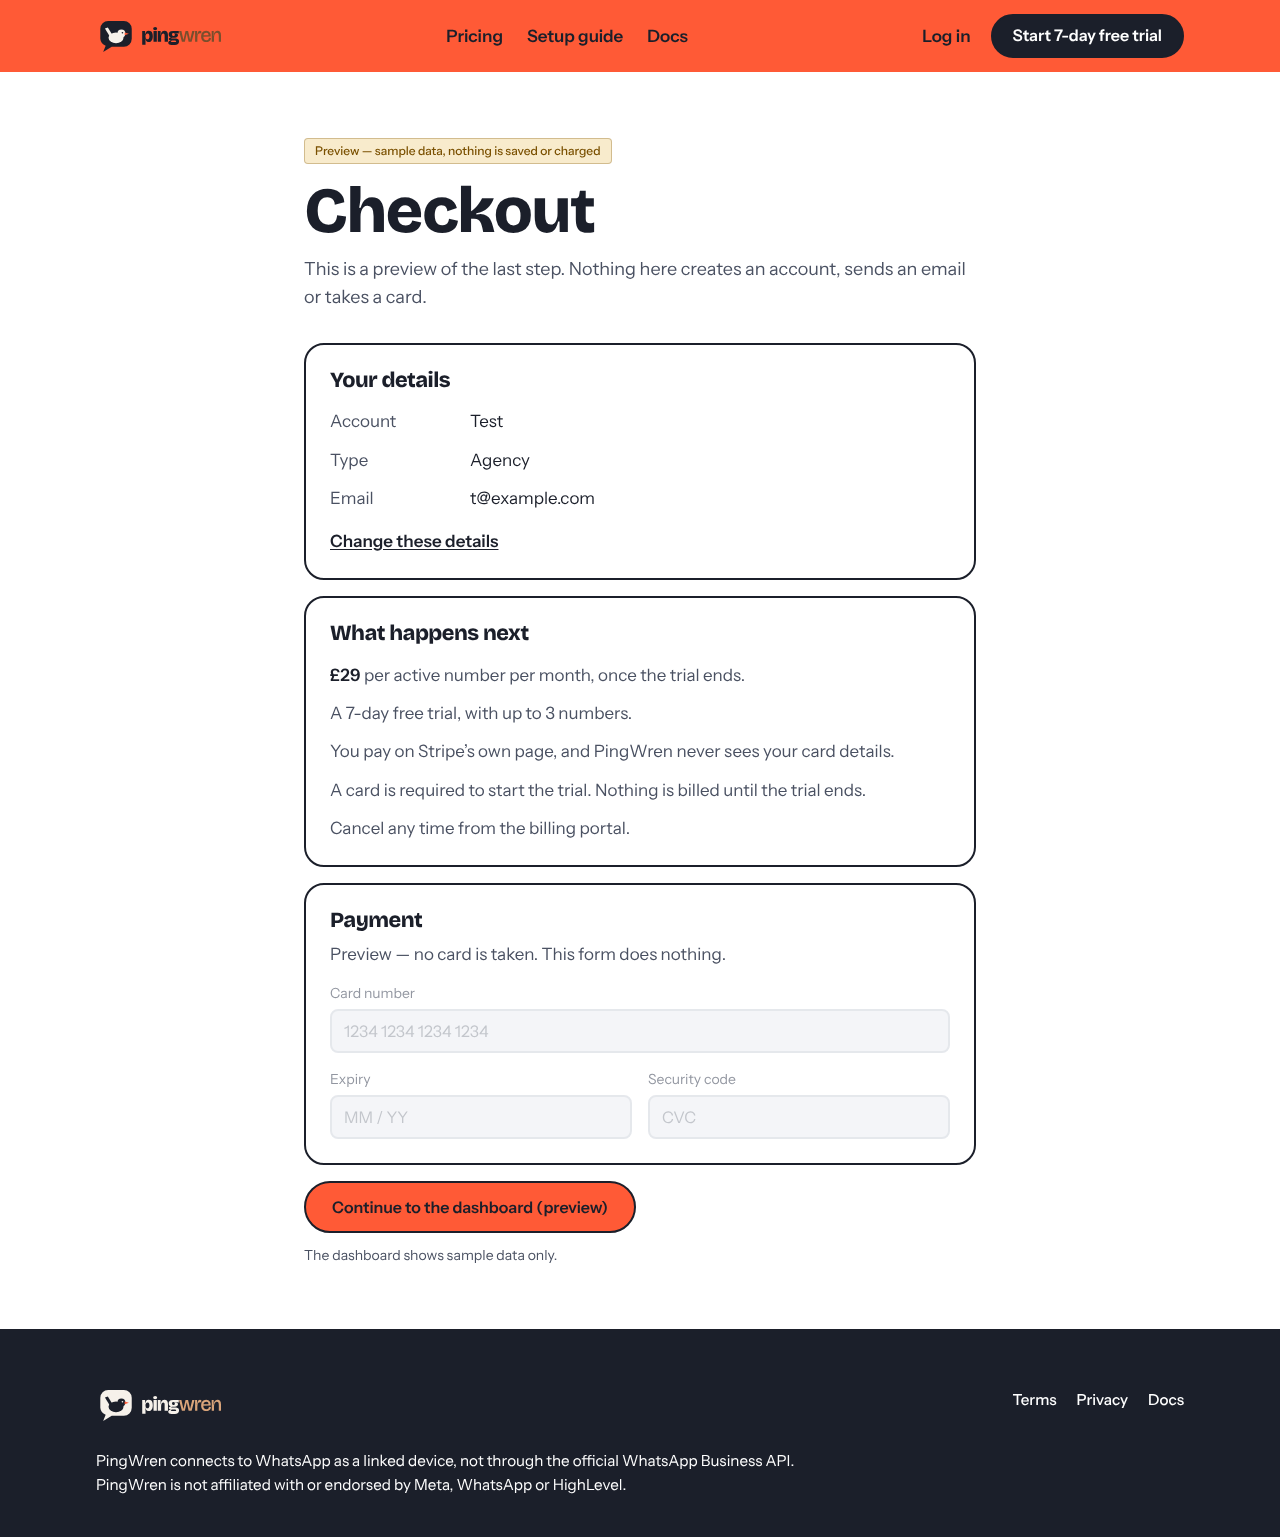
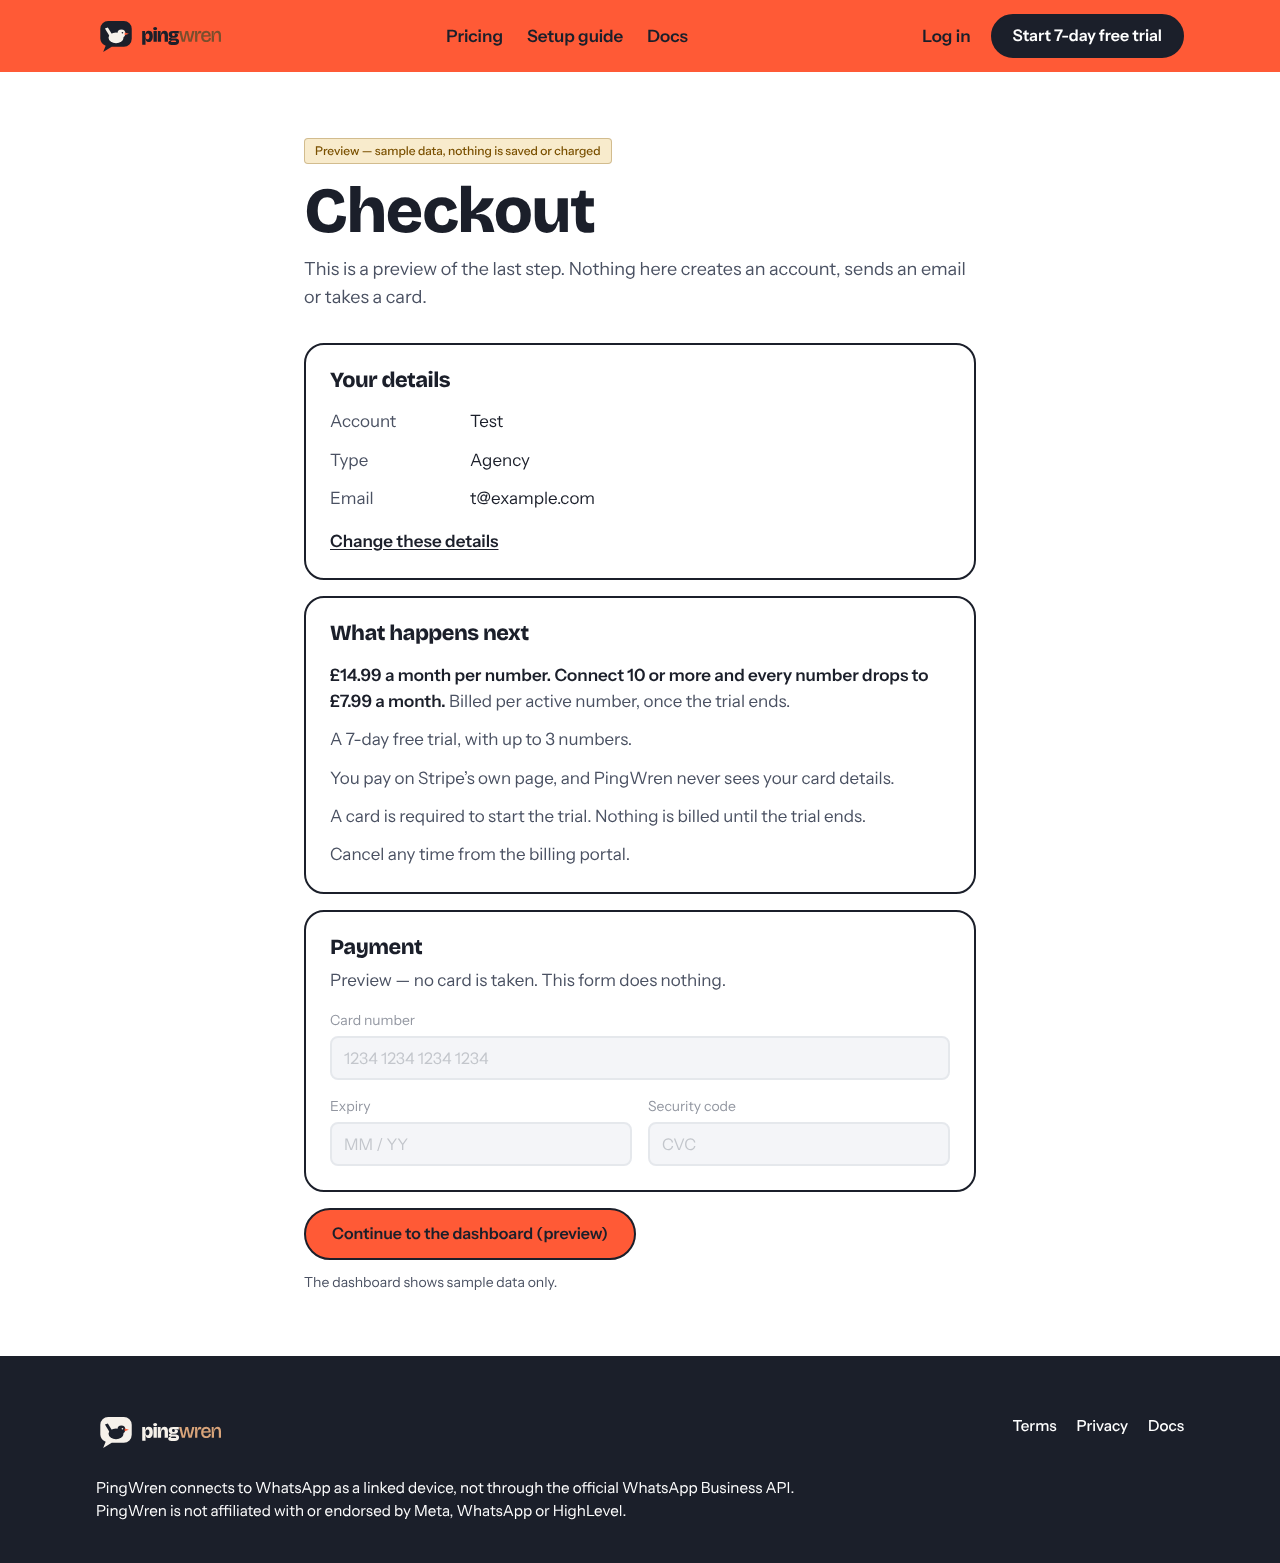
verify: walkthrough after pricing, phones and help sheet
Claude-Session: https://claude.ai/code/session_01C8am6JXR8UgvKbeEBPvjuQ

diff --git a/docs/website-screenshots/README.md b/docs/website-screenshots/README.md
@@ -5,11 +5,13 @@ Verification of the PingWren website at commit `574906e` (branch `claude/adoring
 ## How to re-run
 
 ```sh
-BRAND_PRICE_PER_NUMBER=29 NEXT_PUBLIC_APP_URL=http://localhost:3000 npm run build
-BRAND_PRICE_PER_NUMBER=29 NEXT_PUBLIC_APP_URL=http://localhost:3000 npm start   # port 3000; note the PID
+NEXT_PUBLIC_APP_URL=http://localhost:3000 npm run build   # no price env var: pricing is a constant in src/lib/pricing.ts (W40)
+NEXT_PUBLIC_APP_URL=http://localhost:3000 npm start   # port 3000; note the PID
 npm i --no-save axe-core@4.10.2
 NODE_PATH=/opt/node22/lib/node_modules PLAYWRIGHT_BROWSERS_PATH=/opt/pw-browsers node scripts/site-walkthrough.cjs
 ```
+
+The price figures quoted in the Task 12 and Task 13 sections below (£29, £145, £348) are the historical single price; since Task 15 the site uses volume pricing (£14.99 a number, £7.99 each at 10 or more). See the Task 17 re-run at the end for the current figures.
 
 `scripts/site-walkthrough.cjs` starts nothing itself. For every route at 375x812 and 1280x900 it asserts no horizontal scroll, the expected `<h1>` count, the expected HTTP status, no WhatsApp green (`#25D366`) in any computed colour and no image whose `src` looks like a WhatsApp logo; it captures a full-page screenshot and runs axe-core 4.10.2 (`wcag2a`, `wcag2aa`, `wcag21aa`). It exits 1 on any failure or any serious/critical axe violation and writes `a11y-report.md`.
 
@@ -21,7 +23,7 @@ NODE_PATH=/opt/node22/lib/node_modules PLAYWRIGHT_BROWSERS_PATH=/opt/pw-browsers
 - `/admin` answers **500** without Supabase env (fails closed), as expected.
 - No page paints `#25D366`; no WhatsApp logo image anywhere.
 
-Routes: `/`, `/pricing`, `/docs`, `/docs/setup`, `/docs/faq`, `/docs/billing`, `/docs/privacy-and-data`, `/legal/terms`, `/legal/privacy`, `/signup`, `/login`, `/dashboard`, `/dashboard/billing`, `/dashboard?scenario=past_due`, `/dashboard?filter=attention`, `/docs/setup?audience=business`, `/signup/checkout?name=Test&kind=agency&email=t%40example.com`, `/login?sent=1`, `/signup?error.*` (all three errors, values kept: `signup--errors-*.png`), `/this-page-does-not-exist` (404, `not-found-*.png`), `/embed/crm`, `/connect/abc`.
+Routes: `/`, `/pricing`, `/docs`, `/docs/setup`, `/docs/connect` (added in the Task 17 re-run), `/docs/faq`, `/docs/billing`, `/docs/privacy-and-data`, `/legal/terms`, `/legal/privacy`, `/signup`, `/login`, `/dashboard`, `/dashboard/billing`, `/dashboard?scenario=past_due`, `/dashboard?filter=attention`, `/docs/setup?audience=business`, `/signup/checkout?name=Test&kind=agency&email=t%40example.com`, `/login?sent=1`, `/signup?error.*` (all three errors, values kept: `signup--errors-*.png`), `/this-page-does-not-exist` (404, `not-found-*.png`), `/embed/crm`, `/connect/abc`.
 
 Screenshots are `<slug>-375.png` and `<slug>-1280.png`. Hero animation frames are `hero-anim-{start,mid,end,reduced-motion}-1280.png` (clipped to the hero figure). The open mobile menu is `home-mobile-menu-open-375.png`. No two states were pixel-identical, so nothing was dropped.
 
@@ -89,3 +91,15 @@ Re-run at commit `71866c3` (Task 14A to 14C: coral field, Ink pills and slabs, h
 - Direction B fidelity against `docs/design/website/direction-b.html`: header and hero are one coral field (header border 0); at 1280 the h1 is 58.9px and the big number 280px, 712px wide in a 665px column (107%), so the "+" sits partly behind the tilted SMS phone, as it does in the draft; the phones (229px and 219px wide, rotated -4deg and 3deg) cross the coral edge at 64% and 70% of their height; "Why" top padding 320px; step numerals Coral at 115px on Ink; the board is a 3px Ink slab with an Ink top bar; the safety rows are 3px Ink rules on Coral; the disclosure slab lifts with a 12px Coral shadow; the FAQ h2 is sticky on Mist with CSS chevrons; the price strip is Coral; the footer Ink. At 375 the h1 is 33.6px, the number 104px (77% of the 343px column), the phones 185px and 182px wide side by side from x=13 to x=363, crossing the coral edge at 83% and 77%, "Why" top padding 230px, FAQ h2 static, slab shadow 6px.
 - Copy: the rendered text of `/`, `/pricing`, `/docs/setup` and `/docs/faq` was diffed against `COPY-DECK.md` (40 quoted blocks: all present except the aria-labels and the calculator template, which are not visible text, and the FAQ `ban-risk` answer, where `faq.ts` carries the approved shorter wording). None of the draft-only lines ("Clients read WhatsApp", "behaves like a person", "flag it for you", "Our 85%+ is our own", B's four business names and row states) renders. W10 ("from that number"), W11 ("reported back to GoHighLevel as not sent"), W12 (footer disclaimer), W14 ("per active number"), W35 ("verified badge", "per message") all present; "HighLevel" only in quoted help-centre titles and the disclaimer. "PingWren" appears at most once per paragraph on `/` except the two-sentence footer disclaimer (pinned, W12).
 - Findings from this run are in `.superpowers/sdd/2026-10-16-website/task-14d-report.md` (gitignored) and `progress.md`.
+
+## Task 17 (volume pricing, WhatsApp-style phones, help sheet) re-run
+
+Re-run at commit `83b2fcc` (Task 15: volume pricing, the two WhatsApp-style phones, "Why we made it" removed; Task 16: the `/docs/connect` help sheet and PDF). Same command, production build on port 3200 (`BASE_URL=http://localhost:3200`), no Supabase env and no price env var.
+
+- Exit code **0**: 23 routes x 2 widths (`/docs/connect` is new), 0 axe violations at any impact, 0 horizontal-scroll failures (`scrollWidth == innerWidth` on every route at 375 and 1280), one `<h1>` on every route except `/embed/crm` (F2), `/admin` 500 as expected, no WhatsApp green or logo on any page. `a11y-report.md` gains the two `/docs/connect` rows and its logo rows (standard artwork on Coral in the header, reverse on Ink in the footer).
+- Every `<slug>-375.png` and `<slug>-1280.png` is refreshed; `docs-connect-{375,1280}.png` are new.
+- Pricing (ruling W40 revised, volume): the calculator gives 1 = £14.99, 3 = £44.97, 5 = £74.95, 9 = £134.91, 10 = £79.90, 11 = £87.89 and 25 = £199.75; 0 shows £14.99 with "Enter a whole number from 1 to 500. Showing the price for 1."; 600 shows £3,995.00 with "...Showing the price for 500."; empty clears the live region. With JavaScript off at 375 the fallback sentence reads "1 number is £14.99 a month, 3 numbers £44.97, 5 numbers £74.95, 10 numbers £79.90 and 25 numbers £199.75" and the tier list (1 to 9 numbers £14.99 each; 10 or more £7.99 each) is in the HTML. The same two-sentence tier line ("£14.99 a month per number. Connect 10 or more and every number drops to £7.99 a month.") appears on the home price strip, the FAQ trial answer (home and `/docs/faq`), `/docs/billing`, `/signup/checkout`, and the dashboard billing preview; the dashboard headline reads "3 numbers active · £44.97/month" on trial and "5 numbers active · £74.95/month" for the active and past-due scenarios; the preview invoice is £44.97. No page renders £29 or any "same price" wording.
+- Home: no "Why we made it" section and no "made up" caption. The hero footnote link (`a[href="#own-result"]`) lands on the `#own-result` note inside "Read this before you sign up" (after the click the note's top sits 24px below the viewport top). The two phones read as a plain SMS thread (grey bubble, "No reply") and a WhatsApp-style chat (dark header with avatar, patterned wallpaper, peach outgoing bubble, two grey ticks `rgb(95, 102, 118)`, the reply and the "Back in Conversations" chip). No element inside either phone paints a green in any colour, background, border, fill or stroke; no `<img>` inside them. The figure's `aria-label` describes the exchange.
+- `/docs/connect`: every app label on the sheet ("Connect WhatsApp", "Get a new QR code", "Reconnect", "Connected", "Waiting for QR scan", "Disconnected", the QR instruction, "Open this link on a computer, tablet, or a second phone.") is the string the app shows (`CrmEmbedClient.tsx`, `WhatsappConnectionPanel.tsx`, `ConnectLinkClient.tsx`); the Telephony Provider path, alternative-label note, QR warning and the expired-code / linked-device-limit answers match `setup-steps.ts`. In print media the header nav, the footer and the print/download buttons are `display: none`, the page is Ink on white, and `page.pdf` at A4 produces two pages. The committed `public/help/pingwren-how-to-connect.pdf` (A4, 2 pages) has text identical to a PDF generated from this build.
+- Coral text sweep (every element with its own visible text inside `.surface-coral`, excluding `.btn-ink` and the phones) on `/`, `/pricing`, `/docs`, `/docs/setup`, `/docs/connect`, `/docs/faq`, `/docs/billing` and `/signup` at 375 and 1280: 0 non-Ink colours (9 to 27 elements per page).
+- Findings from this run are in `.superpowers/sdd/2026-10-16-website/task-17-report.md` (gitignored) and `progress.md`.

diff --git a/docs/website-screenshots/a11y-report.md b/docs/website-screenshots/a11y-report.md
@@ -15,6 +15,8 @@ axe-core 4.10.2 with tags wcag2a, wcag2aa, wcag21aa; viewports 375x812 and 1280x
 | `/docs` | 1280 | 200 | 1 | yes | 0 | 0 |
 | `/docs/setup` | 375 | 200 | 1 | yes | 0 | 0 |
 | `/docs/setup` | 1280 | 200 | 1 | yes | 0 | 0 |
+| `/docs/connect` | 375 | 200 | 1 | yes | 0 | 0 |
+| `/docs/connect` | 1280 | 200 | 1 | yes | 0 | 0 |
 | `/docs/faq` | 375 | 200 | 1 | yes | 0 | 0 |
 | `/docs/faq` | 1280 | 200 | 1 | yes | 0 | 0 |
 | `/docs/billing` | 375 | 200 | 1 | yes | 0 | 0 |
@@ -59,7 +61,7 @@ None.
 
 ## Logo variant per route
 
-Logo `<img>` sources found at 1280 with the nearest painted background (reverse artwork belongs on Ink, standard on Cream).
+Logo `<img>` sources found at 1280 with the nearest painted background (reverse artwork belongs on Ink, standard on Coral).
 
 | Route | Logo file | Background |
 | --- | --- | --- |
@@ -71,6 +73,8 @@ Logo `<img>` sources found at 1280 with the nearest painted background (reverse 
 | docs | pingwren-logo-reverse.svg | rgb(27, 31, 42) |
 | docs-setup | pingwren-logo.svg | rgb(255, 90, 54) |
 | docs-setup | pingwren-logo-reverse.svg | rgb(27, 31, 42) |
+| docs-connect | pingwren-logo.svg | rgb(255, 90, 54) |
+| docs-connect | pingwren-logo-reverse.svg | rgb(27, 31, 42) |
 | docs-faq | pingwren-logo.svg | rgb(255, 90, 54) |
 | docs-faq | pingwren-logo-reverse.svg | rgb(27, 31, 42) |
 | docs-billing | pingwren-logo.svg | rgb(255, 90, 54) |
